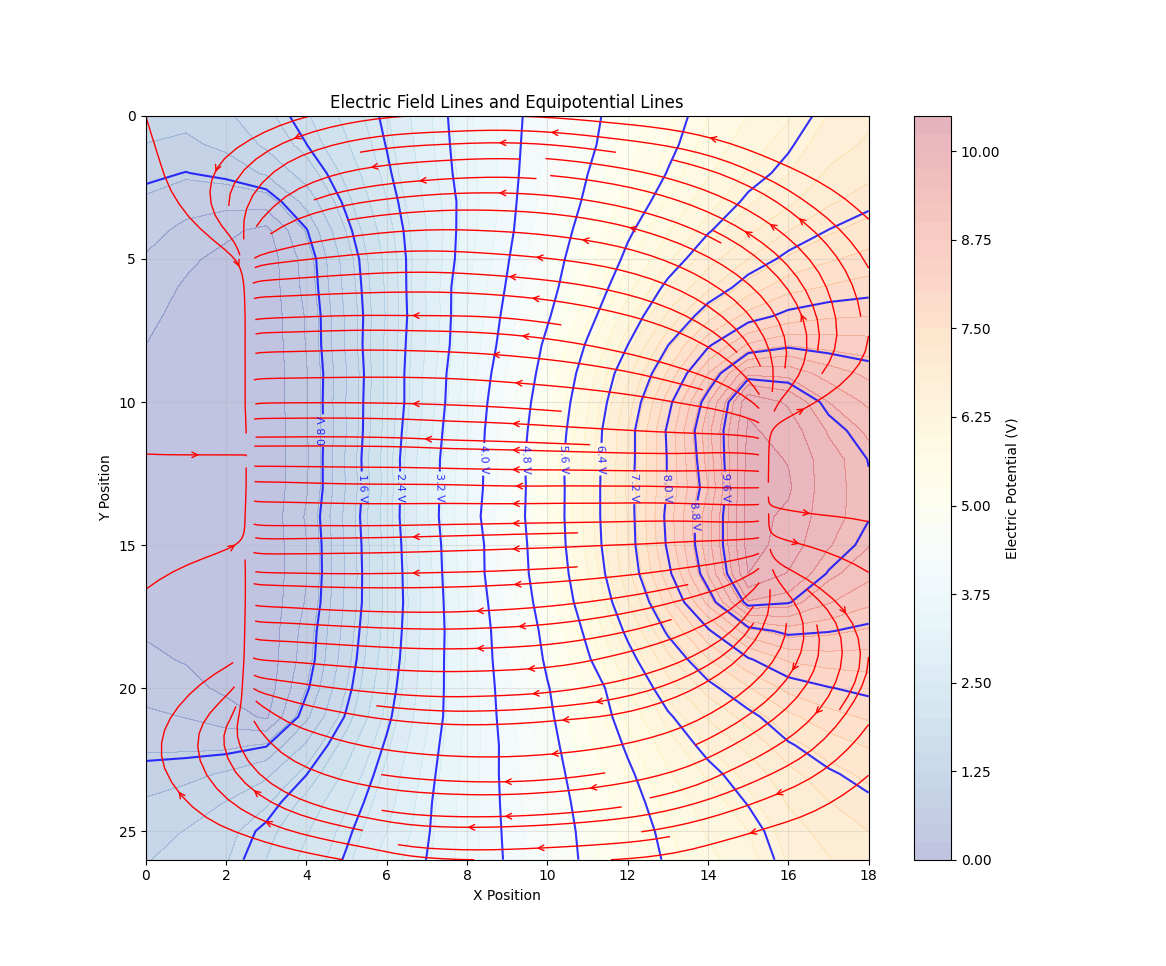
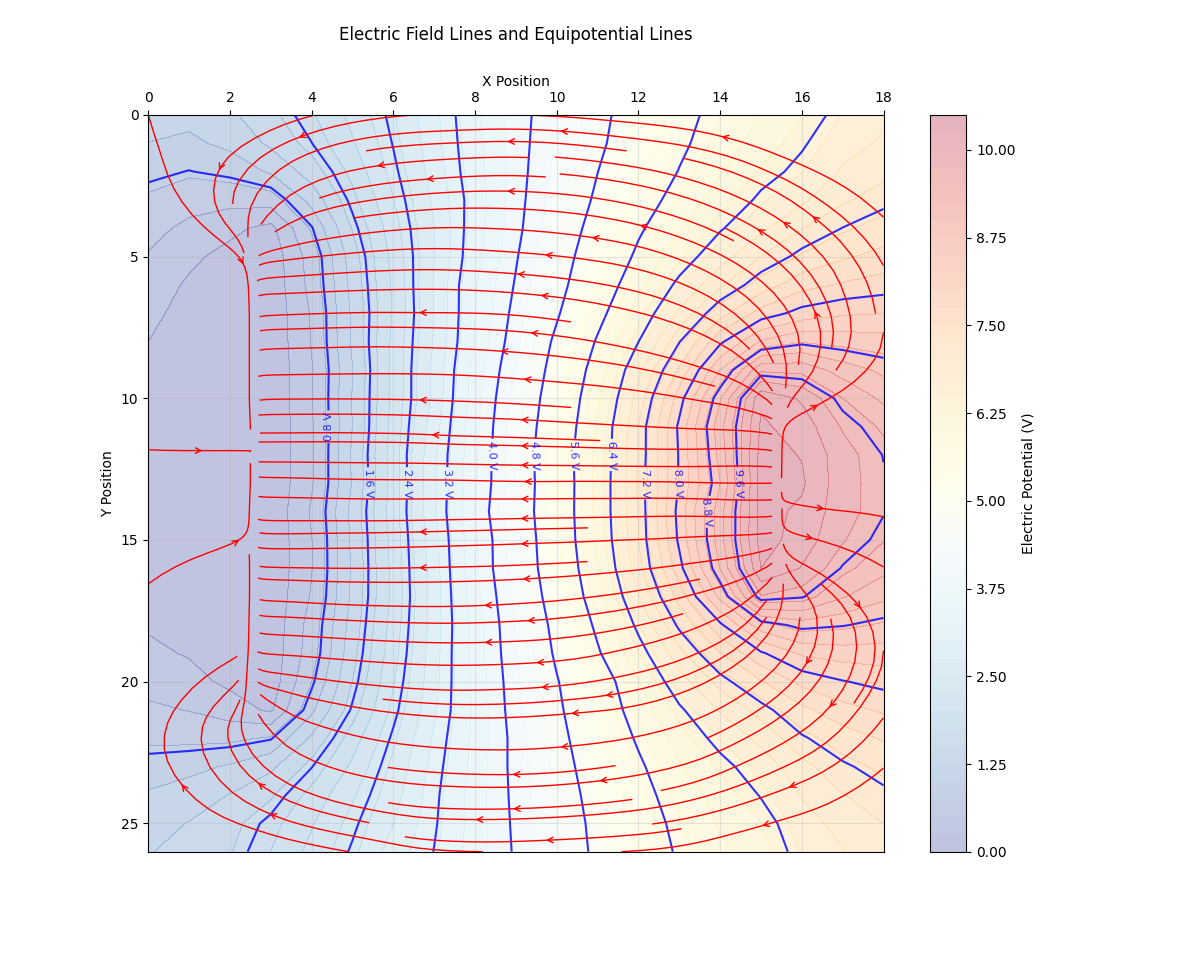
axis fully fixed + image

diff --git a/lab.py b/lab.py
@@ -63,8 +63,13 @@ def plot_field_and_equipotential(voltage_data, num_field_lines=20, num_equipoten
                   arrowstyle='->',
                   minlength=0.3)
     
+    # Move x-axis to top
+    ax = plt.gca()
+    ax.xaxis.set_ticks_position('top')
+    ax.xaxis.set_label_position('top')
+    
     # Customize plot
-    plt.title('Electric Field Lines and Equipotential Lines')
+    plt.title('Electric Field Lines and Equipotential Lines', pad=25)  # Add padding to title
     plt.xlabel('X Position')
     plt.ylabel('Y Position')
     plt.colorbar(contourf, label='Electric Potential (V)')
